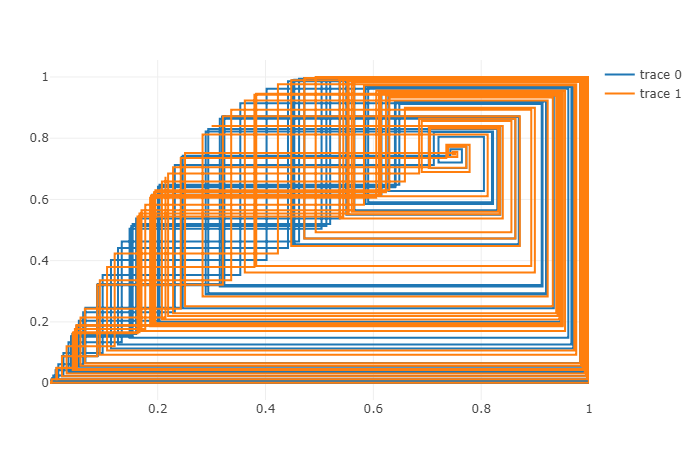
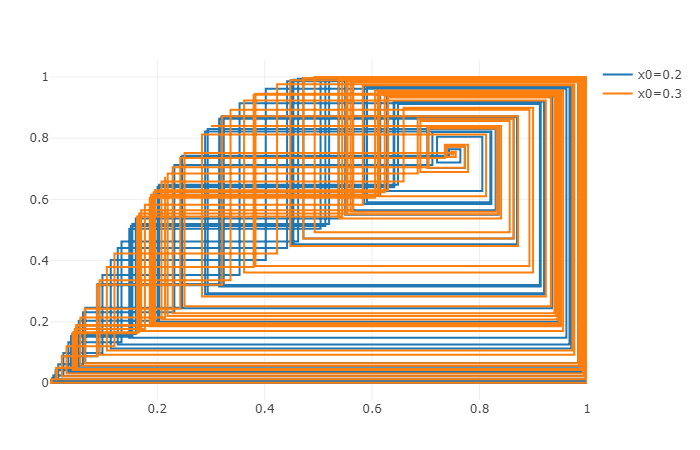
added graph legends and changed nonlinear definition

diff --git a/markdown/logistic_maps.md b/markdown/logistic_maps.md
@@ -1,6 +1,6 @@
 # The Logistic Map
 
-The [logistic map](https://en.wikipedia.org/wiki/Logistic_map#:~:text=The%20logistic%20map%20is%20a,simple%20non%2Dlinear%20dynamical%20equations.) is a nonlinear recurrence relation equation. "Nonlinear" eluding to  the chaotic nature of the logistic map function.
+The [logistic map](https://en.wikipedia.org/wiki/Logistic_map#:~:text=The%20logistic%20map%20is%20a,simple%20non%2Dlinear%20dynamical%20equations.) is a nonlinear recurrence relation equation. "Nonlinear" meaning the outputs do not change in direct proportion to changes in the input arguments.
 
 The function itself is represented as:
 
@@ -12,9 +12,17 @@ When iterating the above equation multiple times it produces the following graph
 
 ![Logistic Graph](../images/logisticmapgraph.png)
 
-When iterating whilst varying `x0` it produces the following images:
+When iterating whilst varying `x0` it produces the following animation:
 
 ![vary_x0_0.5](../code/week_two-graph_animation/varying_x_and_r/vary_x0_0.5/output.gif)
+
+When iterating whilst varying `r` the function produces the following animation:
+
+![vary_r_4](../code/week_two-graph_animation/varying_x_and_r/vary_r_4/output.gif)
+
+And finally when varying the number of iterations, `n` the function produces the following graph:
+
+
 
 As you can see towards the end it displays chaotic behaviour and this is one of the first ways used to generate random numbers on deterministic machines like computers. Although appearing to be random, if given the exact input values the exact same output could be achieved therefore making it only pseudo-random. This is an example of deterministic chaos. As `r` increases between 0 and 5 in this example it shows to behave chaotically towards the end at values of 3-5.
 
